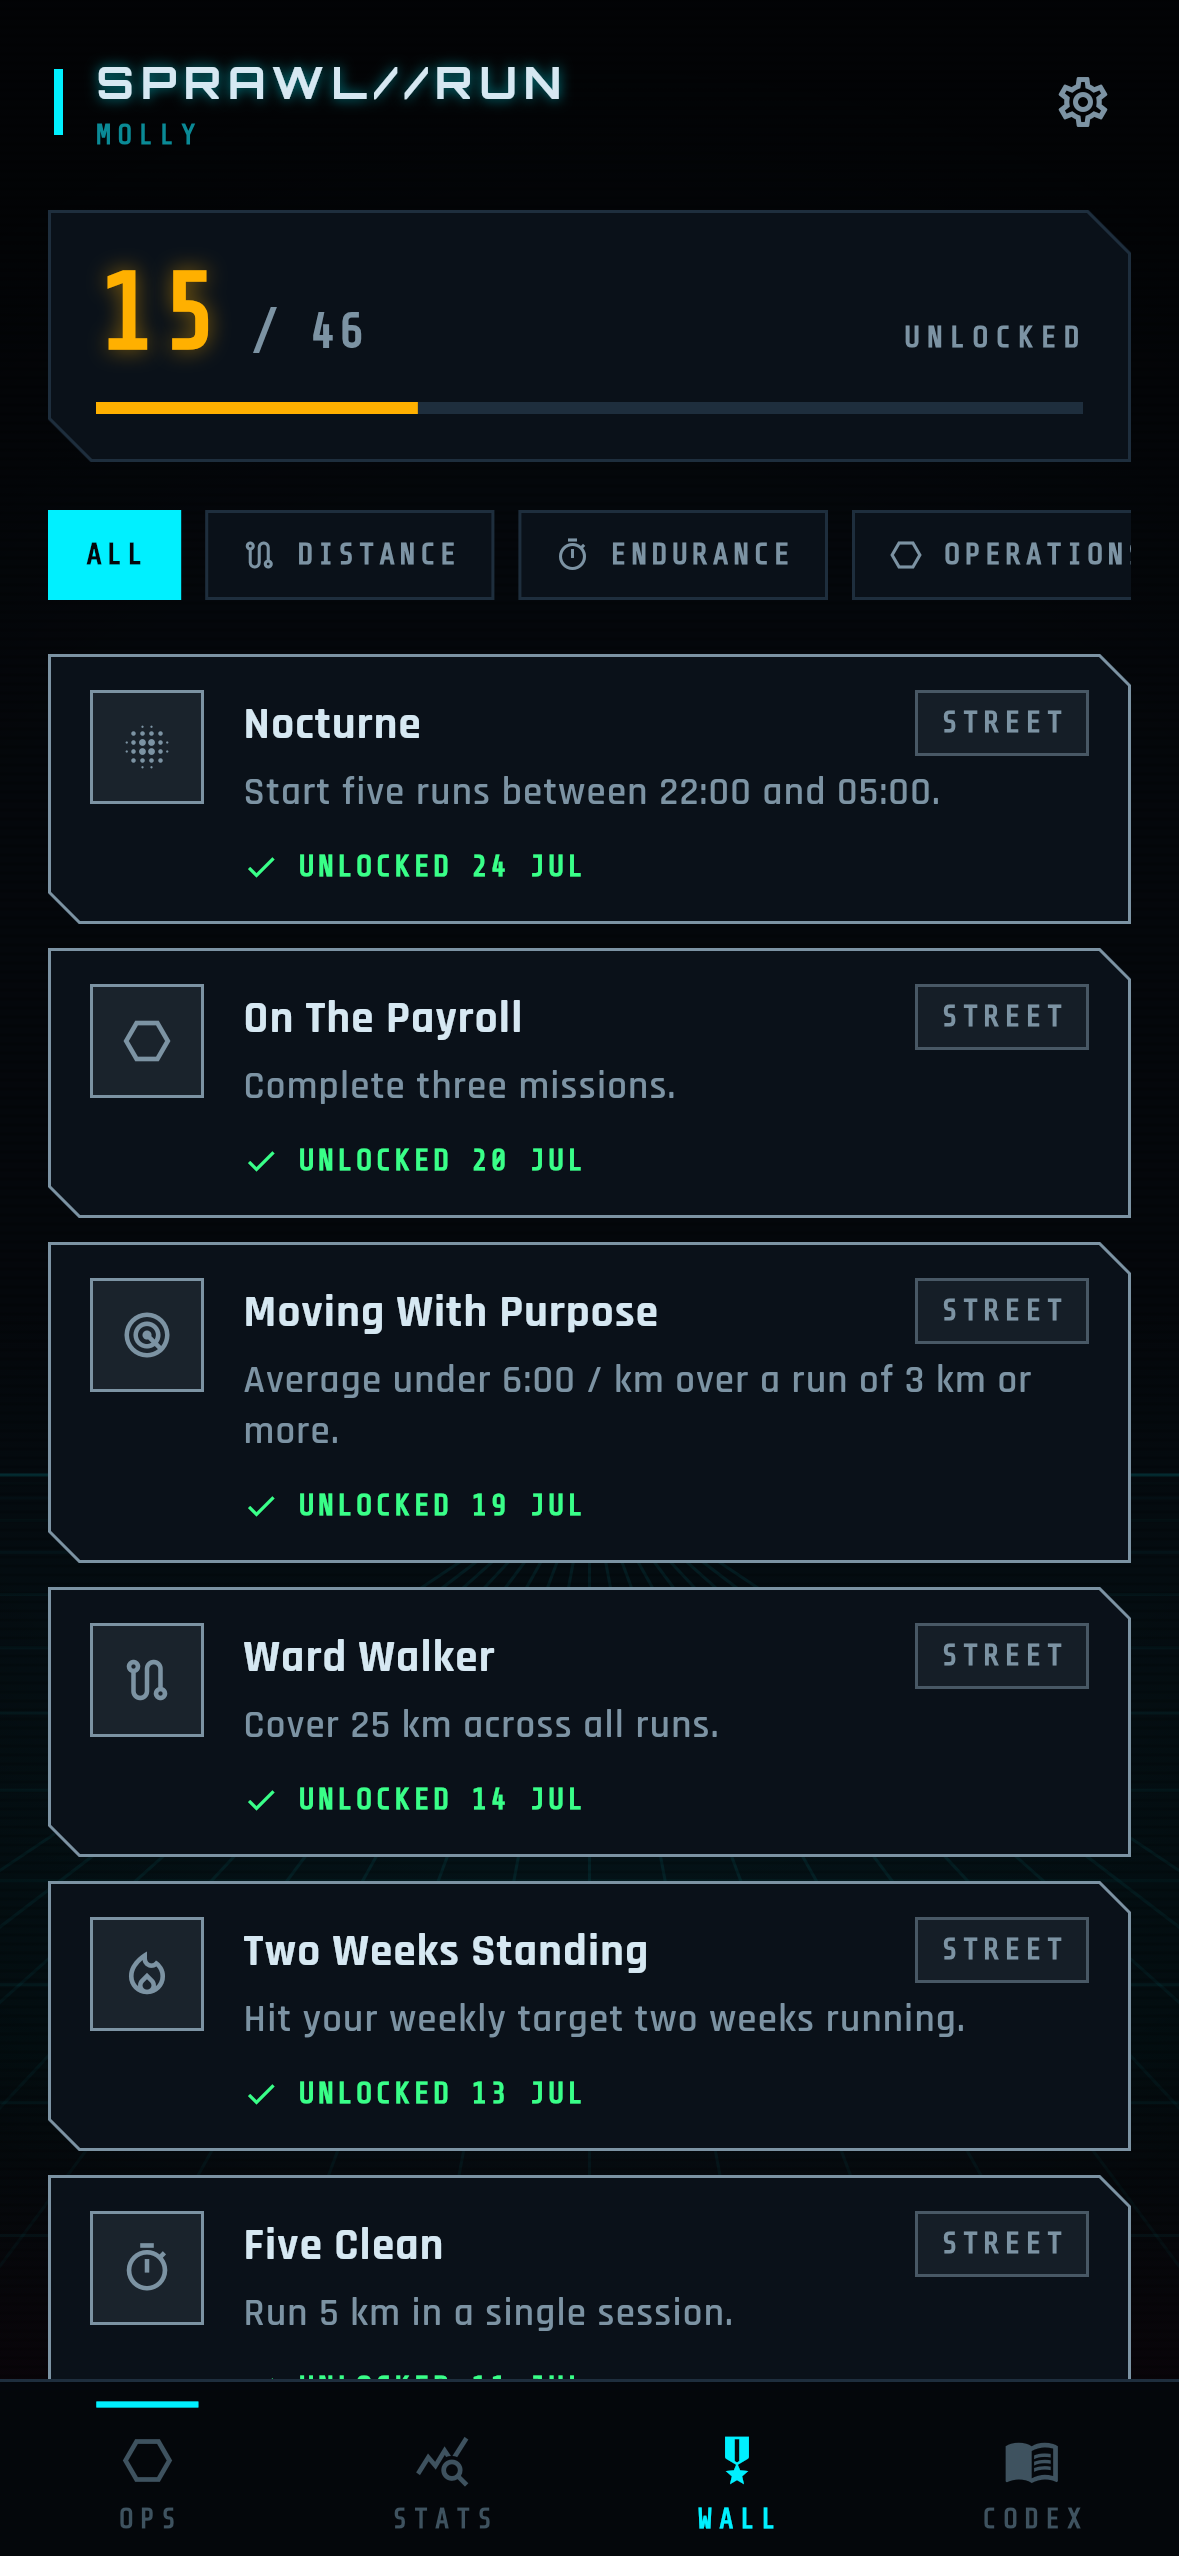
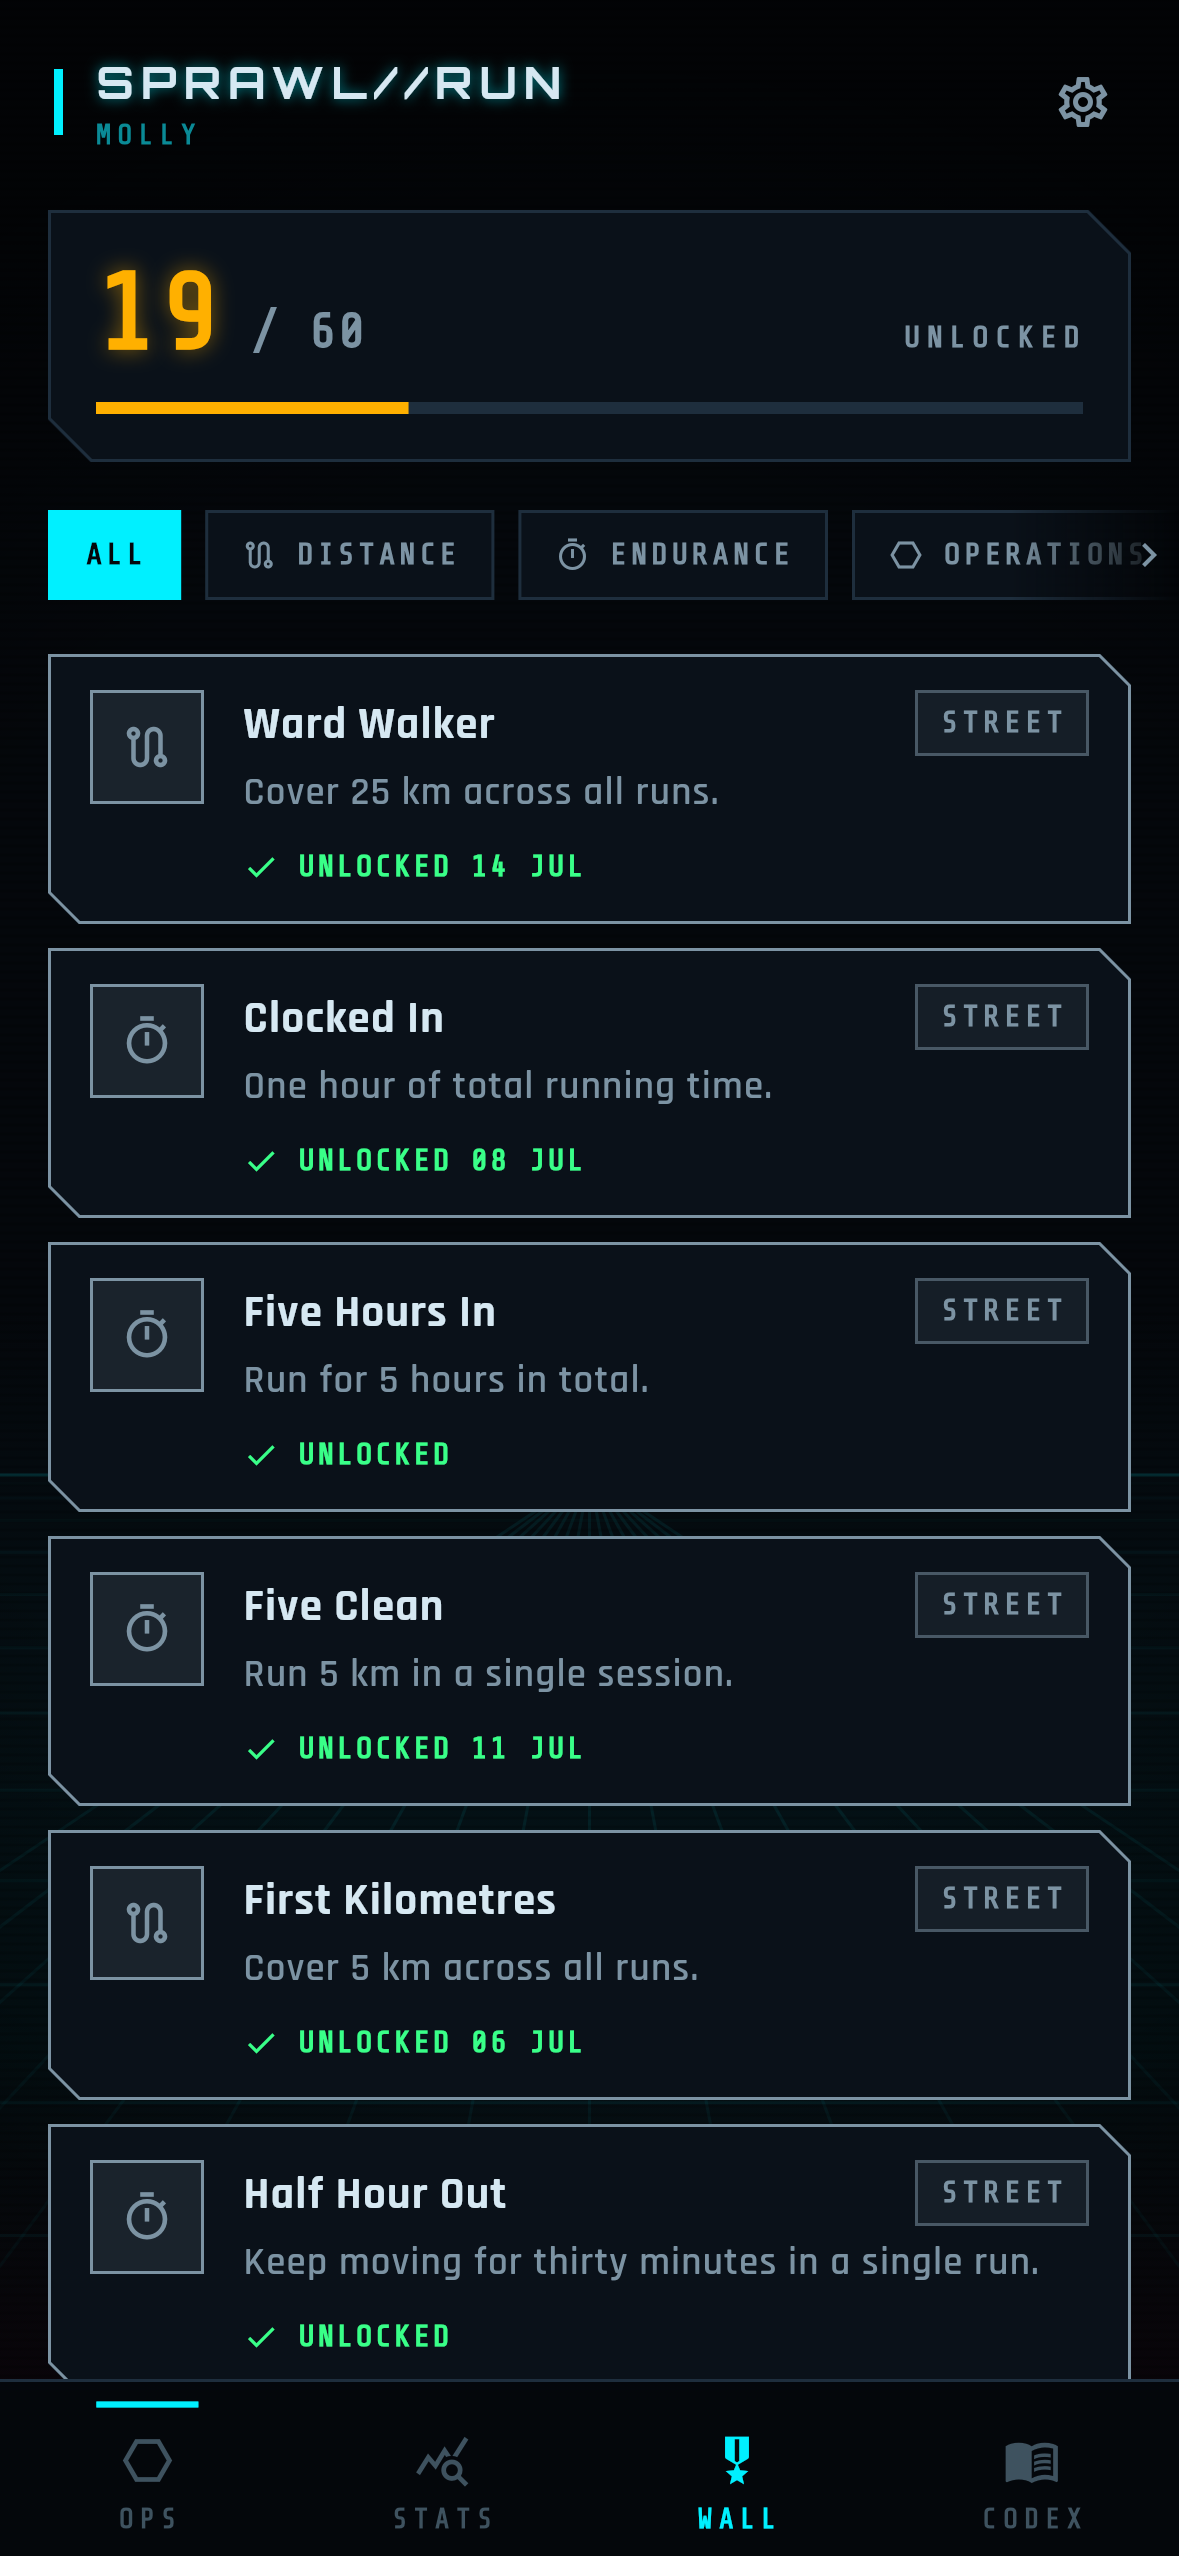
Show that the achievement category rail scrolls

diff --git a/lib/screens/achievements_screen.dart b/lib/screens/achievements_screen.dart
@@ -28,37 +28,115 @@ class _AchievementsScreenState extends State<AchievementsScreen> {
     final shown = _filter == null ? wall : wall.where((v) => v.def.category == _filter).toList();
     final earned = wall.where((v) => v.earned).length;
 
+    // Horizontal padding sits on each child rather than on the list, so the
+    // filter rail can run under the screen edge and show it has more.
+    const gutter = EdgeInsets.symmetric(horizontal: 16);
     return ListView(
-      padding: const EdgeInsets.fromLTRB(16, 6, 16, 28),
+      padding: const EdgeInsets.fromLTRB(0, 6, 0, 28),
       children: [
-        _WallHeader(earned: earned, total: wall.length),
+        Padding(padding: gutter, child: _WallHeader(earned: earned, total: wall.length)),
         const SizedBox(height: 16),
-        SingleChildScrollView(
-          scrollDirection: Axis.horizontal,
-          child: Row(
-            children: [
+        _FilterRail(
+          padding: gutter,
+          children: [
+            _FilterChip(
+              label: 'ALL',
+              selected: _filter == null,
+              onTap: () => setState(() => _filter = null),
+            ),
+            for (final category in AchCategory.values) ...[
+              const SizedBox(width: 8),
               _FilterChip(
-                label: 'ALL',
-                selected: _filter == null,
-                onTap: () => setState(() => _filter = null),
+                label: category.label,
+                icon: category.icon,
+                selected: _filter == category,
+                onTap: () => setState(() => _filter = category),
               ),
-              for (final category in AchCategory.values) ...[
-                const SizedBox(width: 8),
-                _FilterChip(
-                  label: category.label,
-                  icon: category.icon,
-                  selected: _filter == category,
-                  onTap: () => setState(() => _filter = category),
-                ),
-              ],
             ],
-          ),
+          ],
         ),
         const SizedBox(height: 18),
         for (final view in shown) ...[
-          _AchievementCard(view: view, stats: state.lifetime),
+          Padding(padding: gutter, child: _AchievementCard(view: view, stats: state.lifetime)),
           const SizedBox(height: 8),
         ],
+      ],
+    );
+  }
+}
+
+/// A horizontally scrolling row that says so: the chips fade out at an edge
+/// that still hides some, with a chevron on the trailing side. Both go away
+/// once the rail is scrolled to that end, so a row that fits shows nothing.
+class _FilterRail extends StatefulWidget {
+  const _FilterRail({required this.children, required this.padding});
+
+  final List<Widget> children;
+  final EdgeInsets padding;
+
+  @override
+  State<_FilterRail> createState() => _FilterRailState();
+}
+
+class _FilterRailState extends State<_FilterRail> {
+  final _controller = ScrollController();
+  bool _moreLeft = false;
+  bool _moreRight = false;
+
+  static const double _fade = 56;
+
+  @override
+  void initState() {
+    super.initState();
+    _controller.addListener(_update);
+    // The extent is only known once laid out.
+    WidgetsBinding.instance.addPostFrameCallback((_) => _update());
+  }
+
+  @override
+  void dispose() {
+    _controller.dispose();
+    super.dispose();
+  }
+
+  void _update() {
+    if (!_controller.hasClients) return;
+    final pos = _controller.position;
+    final left = pos.pixels > 1;
+    final right = pos.pixels < pos.maxScrollExtent - 1;
+    if (left != _moreLeft || right != _moreRight) {
+      setState(() {
+        _moreLeft = left;
+        _moreRight = right;
+      });
+    }
+  }
+
+  @override
+  Widget build(BuildContext context) {
+    return Stack(
+      alignment: Alignment.centerRight,
+      children: [
+        ShaderMask(
+          shaderCallback: (bounds) => LinearGradient(
+            colors: const [Colors.transparent, Colors.white, Colors.white, Colors.transparent],
+            stops: [0, _moreLeft ? _fade / bounds.width : 0, _moreRight ? 1 - _fade / bounds.width : 1, 1],
+          ).createShader(bounds),
+          blendMode: BlendMode.dstIn,
+          child: SingleChildScrollView(
+            controller: _controller,
+            scrollDirection: Axis.horizontal,
+            padding: widget.padding,
+            child: Row(children: widget.children),
+          ),
+        ),
+        if (_moreRight)
+          const IgnorePointer(
+            child: Padding(
+              padding: EdgeInsets.only(right: 2),
+              child: Icon(Icons.chevron_right, size: 16, color: Cy.inkDim),
+            ),
+          ),
       ],
     );
   }
